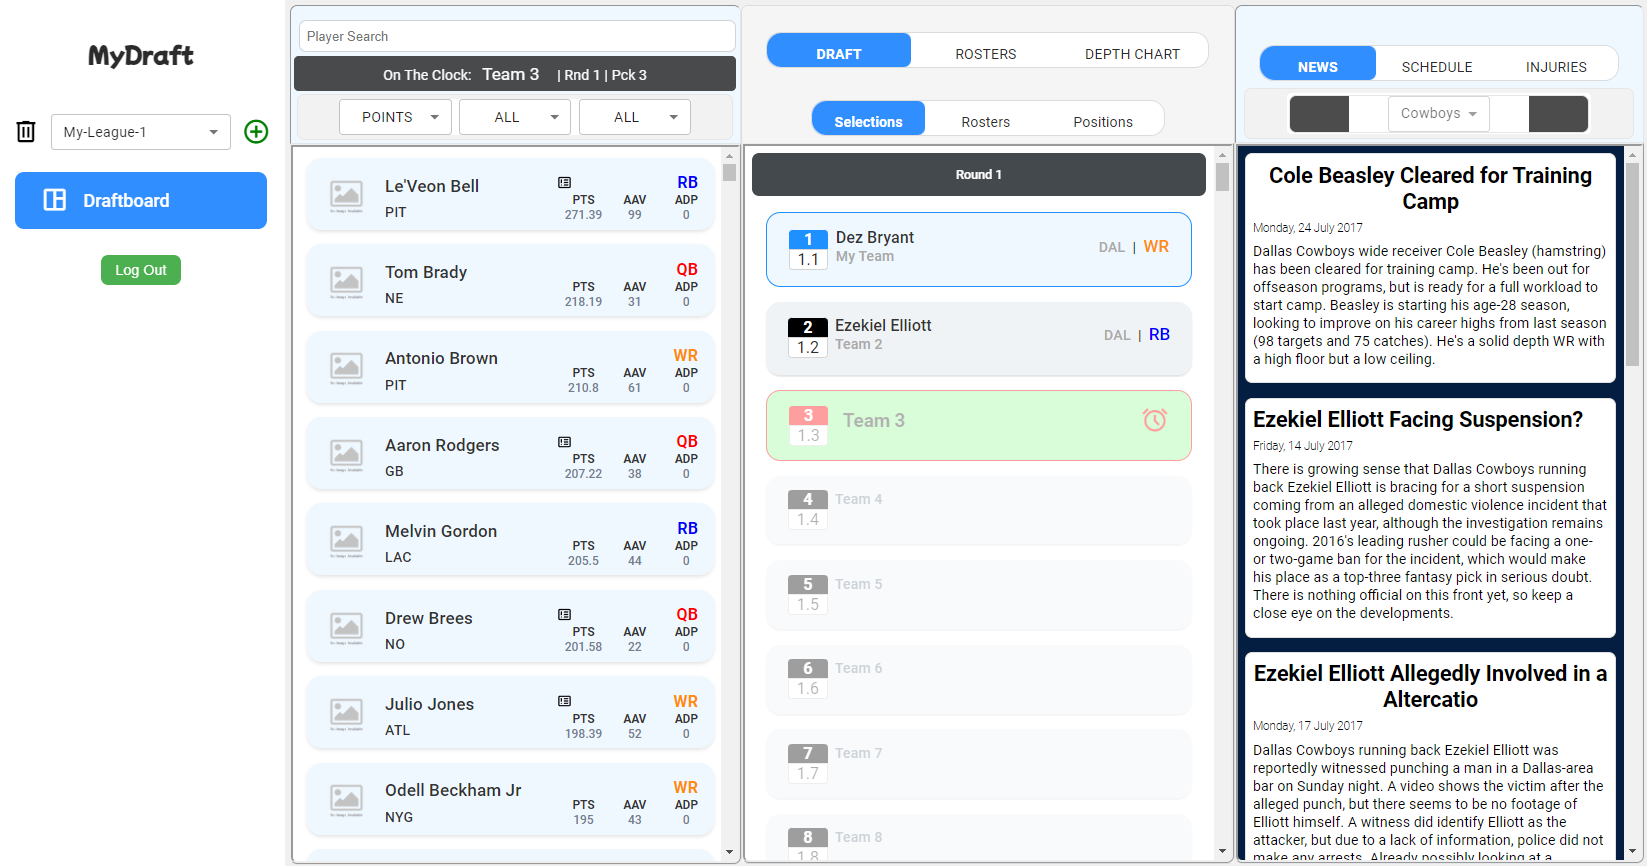
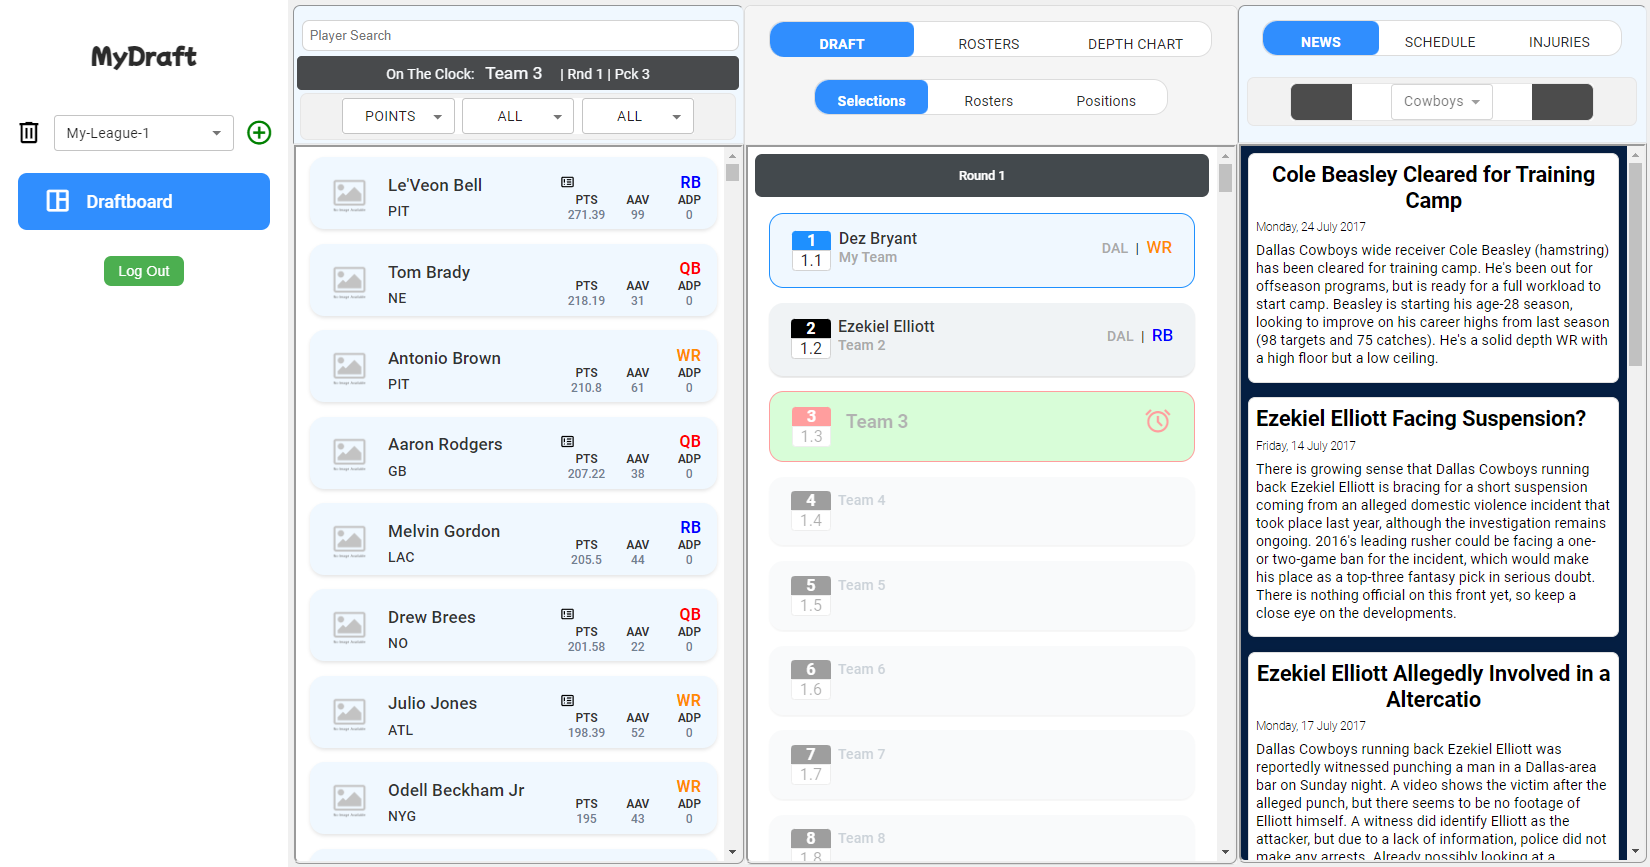
-  CSS UPDATES

diff --git a/src/components/draft-info/index.js b/src/components/draft-info/index.js
@@ -115,6 +115,7 @@ const DraftInfo = () => {
                     width: "80%",
                     display: "flex",
                     justifyContent: "center",
+                    paddingBottom: "1.5rem"
                   }}
                 >
                   <TabList>
@@ -156,6 +157,7 @@ const DraftInfo = () => {
                     width: "80%",
                     display: "flex",
                     justifyContent: "center",
+                    paddingBottom: "1.5rem"
                   }}
                 >
                   <TabList>
@@ -214,6 +216,7 @@ const DraftInfo = () => {
                     width: "80%",
                     display: "flex",
                     justifyContent: "center",
+                    paddingBottom: "1.5rem"
                   }}
                 >
                   <TabList>

diff --git a/src/styles/proTeamInfo.scss b/src/styles/proTeamInfo.scss
@@ -1,20 +1,21 @@
 .proteam-filter-content {
+  margin-top: 1.5rem;
     padding: .3rem;
     display: flex;
     justify-content: center;
-    align-items: center;
+    // align-items: center;
     text-align: center;
     background-color: #f2f2f2;
     border-radius: .5rem;
-    border: 1px solid #e6e6e6;
     margin-left: 0.35rem;
     margin-right: 0.35rem;
+    border: 1px solid #e6e6e6;
   }
 
   .display-proteam-info-filter {
     width: 80%;
     border-radius: 5px;
-    padding: .1rem;
+    // padding: .1rem;
     text-align: center;
     color: white;
     background-color: white;

diff --git a/src/styles/layout.scss b/src/styles/layout.scss
@@ -9,14 +9,14 @@
 }
 
 .left, .middle, .right {
-  margin-top: .1rem;
+  // margin-top: .1rem;
   display: inline-block; 
   *display: inline; /* Hack for older IE browsers */
-  border-bottom: 1px solid #e4e7ea;
+  // border-bottom: 1px solid #e4e7ea;
   vertical-align: top; 
   font-size: smaller;
   box-sizing: border-box; /* Include padding and border in the element's width and height */
-  margin-bottom: 1rem;
+  // margin-bottom: 1rem;
 }
 
 .left {

diff --git a/src/styles/draftInfo.scss b/src/styles/draftInfo.scss
@@ -6,6 +6,7 @@
   padding-top: 0.1rem;
   border-top-left-radius: 0.5rem;
   border-top-right-radius: 0.5rem;
+  // margin-bottom: 0.7rem;
 }
 
 .panel_draftInfo {
@@ -45,7 +46,7 @@
   border: 1px solid #dcdcdc;
   border-radius: 1rem;
   padding-left: 0pxz;
-  margin-top: 1.7rem;
+  margin-top: 1rem;
   font-size: medium;
   background-color: white;
   height: 2.5rem;

diff --git a/src/styles/common.scss b/src/styles/common.scss
@@ -79,7 +79,7 @@ $base-def-background: #9400D3;
   padding: 0 .25rem;
   height: 9.6rem;
   width: 100%;
-  padding-top: 1rem;
+  // padding-top: 1rem;
   background-color: aliceblue;
   border-top-left-radius: 0.5rem;
   border-top-right-radius: 0.5rem;

diff --git a/src/styles/playerFilter.scss b/src/styles/playerFilter.scss
@@ -23,6 +23,7 @@
 }
 
 .search-filter {
+  margin-top: 1rem;
   height: 40px;
   width: 100%;
   padding-left: 5px;
